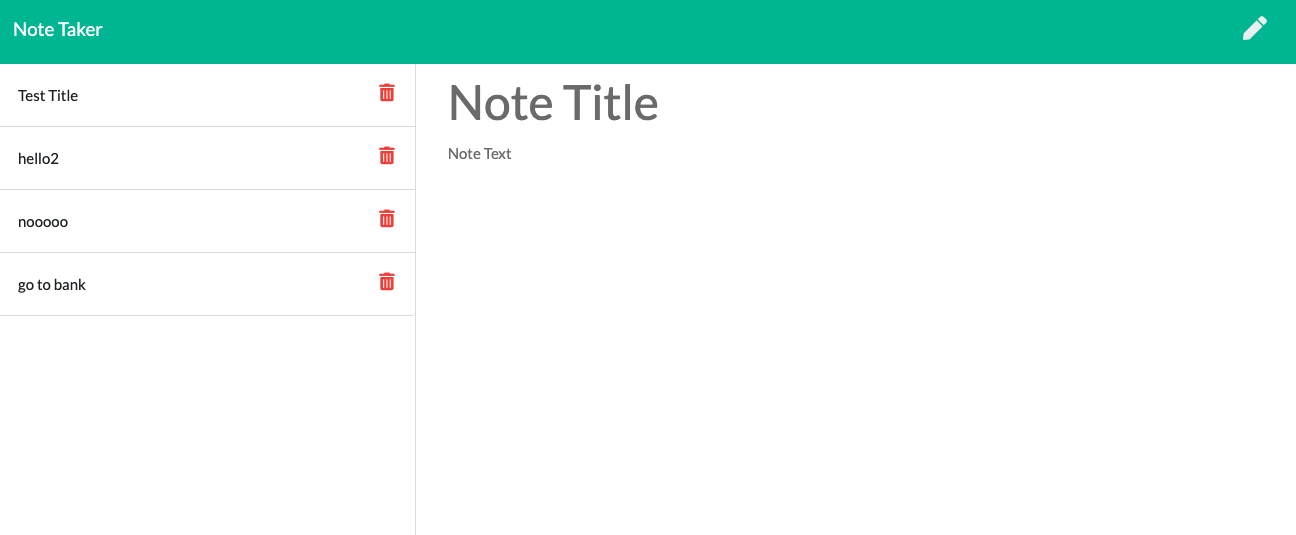
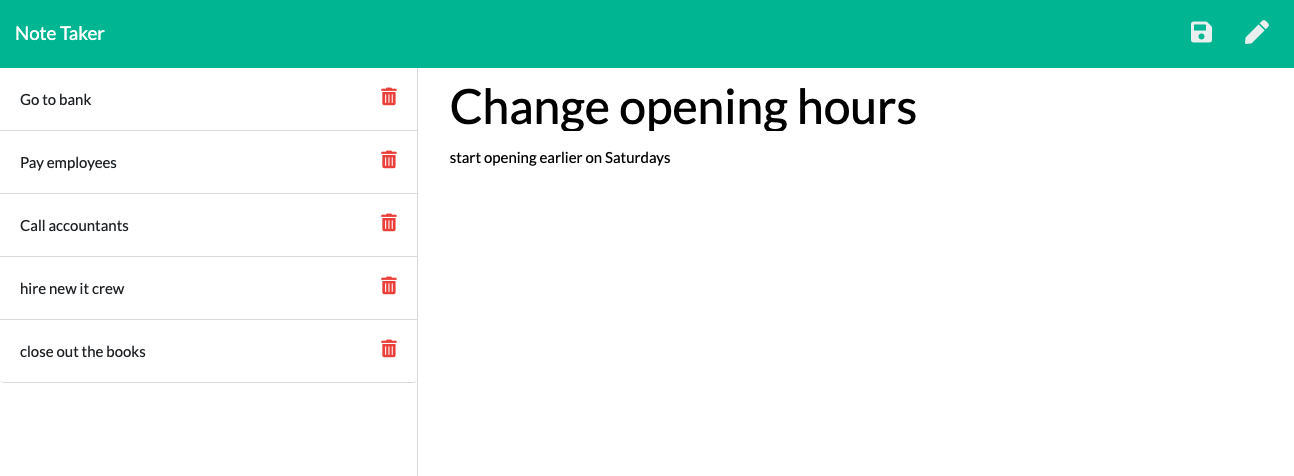
notes can now be deleted and selected, used new uniqid dependency

diff --git a/routes/apiRoutes.js b/routes/apiRoutes.js
@@ -1,16 +1,18 @@
 const notesData = require('../db/db.json');
+const uniqId = require('uniqid');
 
 module.exports = (app) => {
     app.get('/api/notes', (req, res) => res.json(notesData));
 
     app.post('/api/notes', (req, res) => {
+        req.body['id'] = uniqId();
         notesData.push(req.body)
         res.json(true);
     })
-    // Attempte to be able to select note when clicked on 
+    // Selects note when clicked on 
     app.get('api/notes/:id', (req, res) => {
-        const id = req.params.id;
-        notesData.find(id);
+        const id = (value) => value.id === req.params.id;
+        notesData.findIndex(id);
         res.json(notesData);
     })
     // Deletes the note
